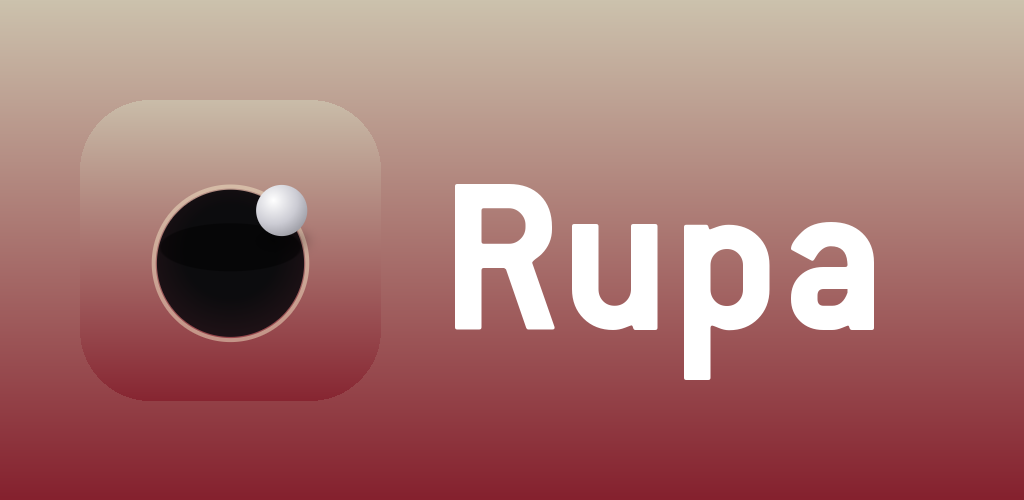
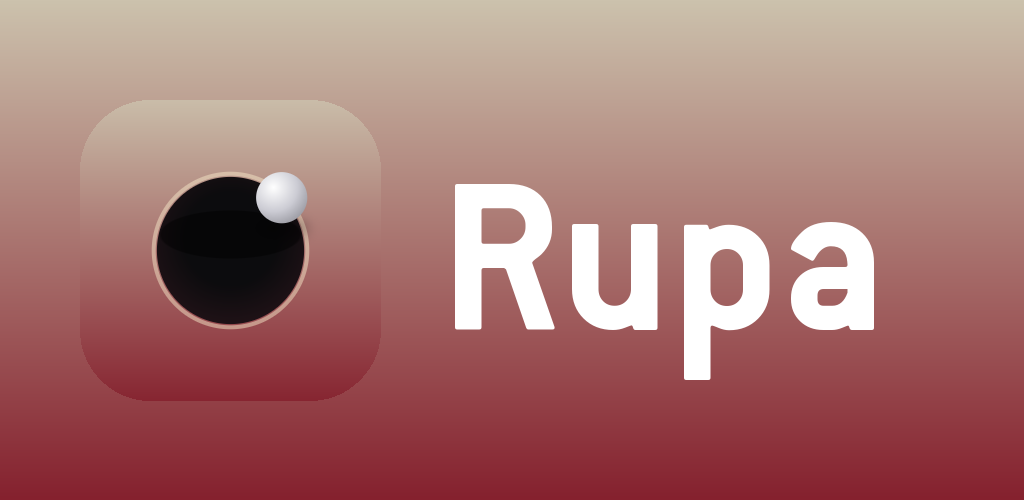
fix(assets): центрировать отверстие в иконке + починить чёрный фон паузы
- Иконка: отверстие теперь по центру плитки (100,100) вместо (100,108) —
  в круглом/скруглённом кроне стора выглядит ровно. Шар/тени/градиенты
  уведены вместе с отверстием (шар остаётся на краю). Касается icon.svg,
  генератора, play_icon_512 и тайла feature graphic. PNG снова сверен с SVG.
- Скрин 06 (пауза): оверлей затемнения заливал всё чёрным (draw.rectangle
  с альфой на RGBA заменял пиксели) — переведён на alpha_composite,
  фон теперь корректно затемнён.
- .gitignore: __pycache__/

Changed region(s): [[0.125, 0.33, 0.3125, 0.51], [0.1562, 0.54, 0.3125, 0.69], [0.125, 0.54, 0.1562, 0.57]]

diff --git a/tools/generate_icon.py b/tools/generate_icon.py
@@ -38,21 +38,21 @@ BLACK    = np.array([0, 0, 0], dtype=float)
 TILE_PAD, TILE_RX = 6, 44                       # скруглённая плитка
 GLOW_CX, GLOW_CY, GLOW_RX, GLOW_RY = 100, 70, 92, 46
 GLOW_STR = 0.22
-HOLE_CX, HOLE_CY, HOLE_R = 100, 108, 46
+HOLE_CX, HOLE_CY, HOLE_R = 100, 100, 46          # отверстие по центру плитки (100,100)
 RIM_R, RIM_W, RIM_STR = 48, 2.5, 0.5
-INNER_CX, INNER_CY, INNER_RX, INNER_RY = 100, 98, 44, 15
+INNER_CX, INNER_CY, INNER_RX, INNER_RY = 100, 90, 44, 15
 INNER_STR = 0.45
-BSH_CX, BSH_CY, BSH_RX, BSH_RY = 132, 94, 17, 6
+BSH_CX, BSH_CY, BSH_RX, BSH_RY = 132, 86, 17, 6
 BSH_STR = 0.28
-BALL_CX, BALL_CY, BALL_R = 132, 75, 16
+BALL_CX, BALL_CY, BALL_R = 132, 67, 16
 
 # SVG-faithful градиенты (objectBoundingBox -> userSpace, поле 200x200):
-HOLE_GCX, HOLE_GCY, HOLE_GR = 100, 100.64, 57.04   # radialGradient cx=.5 cy=.42 r=.62 (bbox 92)
-BALL_GCX, BALL_GCY, BALL_GR = 126.88, 68.6, 27.2    # radialGradient cx=.34 cy=.3 r=.85 (bbox 32)
+HOLE_GCX, HOLE_GCY, HOLE_GR = 100, 92.64, 57.04   # radialGradient cx=.5 cy=.42 r=.62 (bbox 92)
+BALL_GCX, BALL_GCY, BALL_GR = 126.88, 60.6, 27.2   # radialGradient cx=.34 cy=.3 r=.85 (bbox 32)
 SVG_BLUR = 3.5                                      # feGaussianBlur stdDeviation из icon.svg
 
 # Адаптивная иконка: мотив вписываем в центральную safe-zone (~60% поля)
-GC = np.array([100.5, 107.5])   # центр группы «отверстие+шар» в 200-пространстве
+GC = np.array([100.5, 99.5])   # центр группы «отверстие+шар» в 200-пространстве
 GROUP_EXT = 97.0                # макс. габарит группы
 ADAP_TARGET = 120.0             # целевой габарит в 200-пространстве (~60%)
 ADAP_SCALE = ADAP_TARGET / GROUP_EXT

diff --git a/tools/generate_store_assets.py b/tools/generate_store_assets.py
@@ -337,8 +337,9 @@ def render_gameplay(level, paused=False):
         paste_img(img, hand_l, W * 0.2, hy, scale=2.0)
     draw_hud(img, level)
     if paused:
-        d = ImageDraw.Draw(img, 'RGBA')
-        d.rectangle((0, 0, W, H), fill=(0, 0, 0, 77))
+        # затемнение фона 30%: через отдельный слой (alpha_composite),
+        # а не draw.rectangle — иначе альфа заменит пиксели вместо композита.
+        img.alpha_composite(Image.new('RGBA', img.size, (0, 0, 0, 77)))
         pw, ph = min(W * 0.92, 700), H * 0.46
         px, py = (W - pw) / 2, (H - ph) / 2
         rounded_panel(img, px, py, pw, ph, W * 0.05, hsv(250, 0.30, 0.40), hsv(250, 0.55, 0.18))
